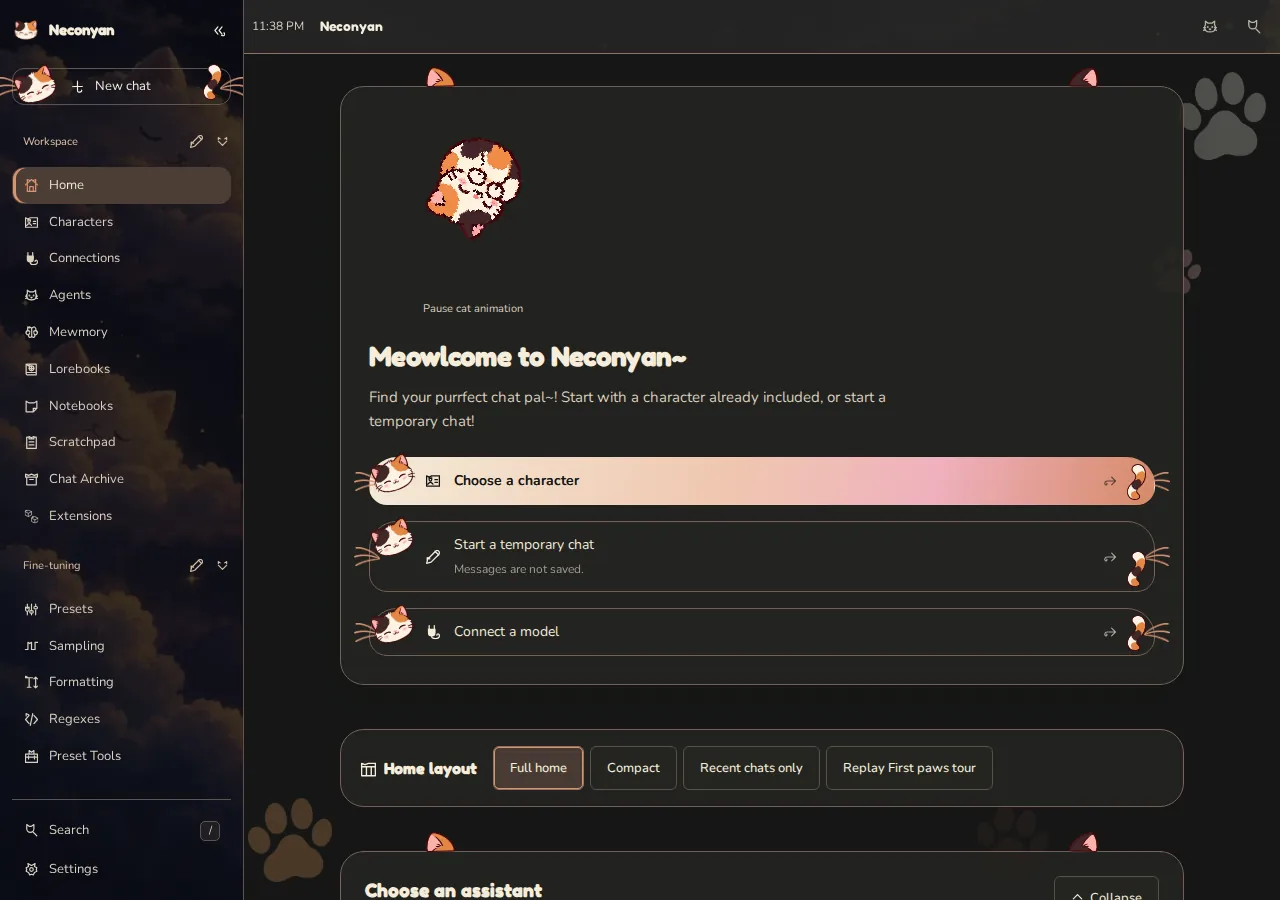
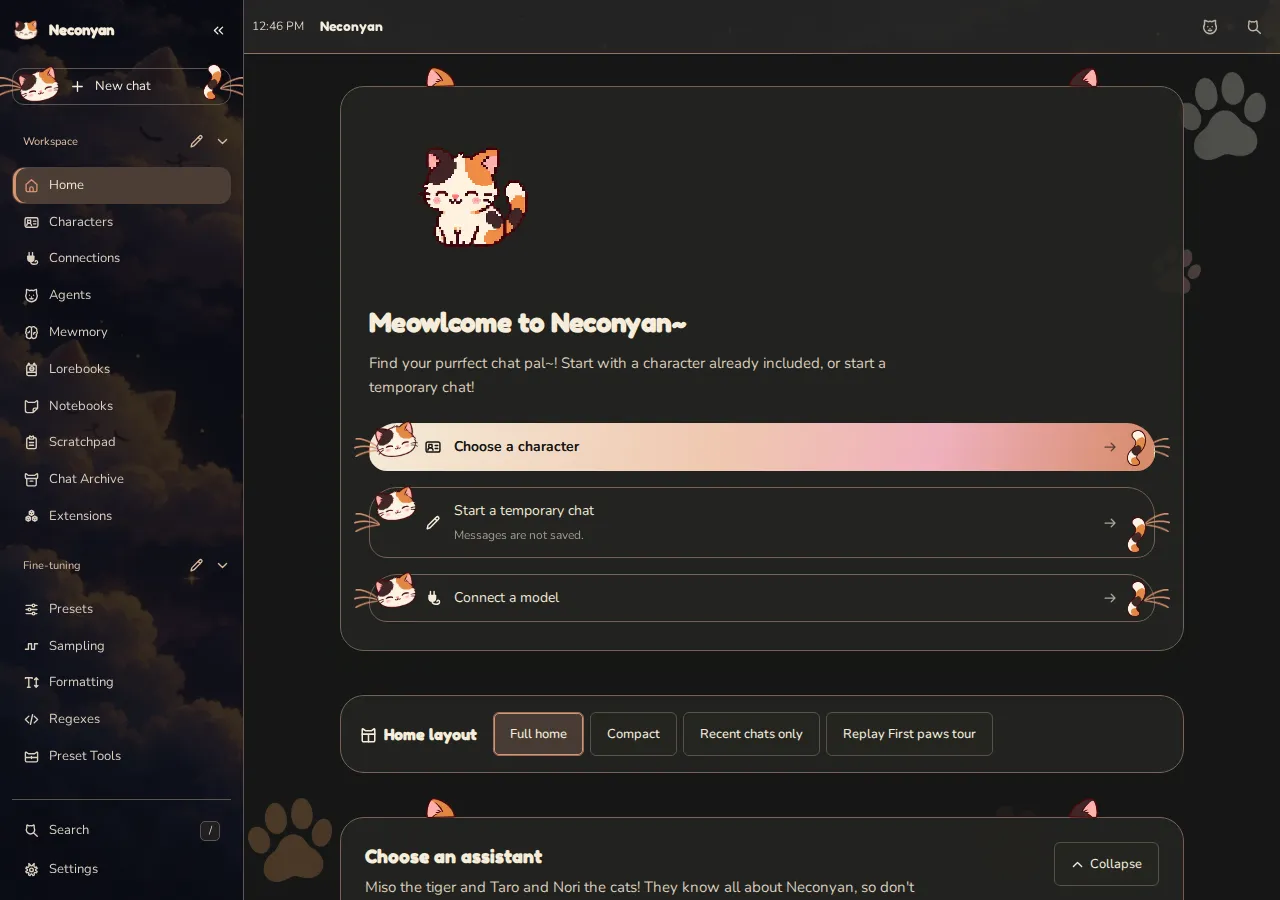
docs: prepare the 1.5.4 handbook and refresh screenshots

diff --git a/docs/help/device-sync.md b/docs/help/device-sync.md
@@ -1,0 +1,99 @@
+---
+title: Device sync
+guide: taro
+quote: 'Choose what travels, save on both sides, then transfer. A newer date alone does not decide which copy wins.'
+---
+
+# Device sync
+
+**Settings → Device sync** moves selected libraries between separate Neconyan installations. If your phone and computer already open the same server and account, they already share its data.
+
+!!! info 'Available in the 1.5.4 candidate'
+    I've reviewed this guide against candidate commit **dca2266f** on 10 November 2026. Version 1.5.4 is not published yet. The current published release is [1.5.3](https://github.com/platberlitz/Neconyan/releases/tag/v1.5.3).
+
+=== "On desktop"
+
+    <figure class="screenshot"><a href="../../assets/images/screenshots/desktop-device-sync.webp"><img src="../../assets/images/screenshots/desktop-device-sync.webp" alt="Device sync settings with category choices and manual transfer methods on desktop" loading="lazy"></a><figcaption>Choose categories and a transfer method in Settings.</figcaption></figure>
+
+=== "On phone"
+
+    <figure class="screenshot screenshot--phone"><a href="../../assets/images/screenshots/phone-device-sync.webp"><img src="../../assets/images/screenshots/phone-device-sync.webp" alt="Device sync settings in the phone layout" loading="lazy"></a><figcaption>The same manual transfer controls on a phone-sized screen.</figcaption></figure>
+
+## Before the first transfer
+
+1. Keep an independent [backup](backups.md) of both installations.
+2. Choose the categories to include, then press **Save categories** on each installation. These choices apply to incoming and outgoing data.
+3. Save the same passphrase of at least **12 characters** on both sides.
+4. Enable the method you want to use. All four methods start off, independently.
+5. Save your current chat and wait for settings to finish saving before importing, syncing, recovering or choosing a conflict resolution.
+
+Enabling a method permits its manual actions. It does not schedule background transfers. Opening the page or saving its configuration does not contact a provider.
+
+After a transfer, use **Reload imported data** before editing again. Do this when the result is uncertain too, so the open page cannot save an older copy over imported data.
+
+## Choose what travels
+
+| Category | What transfers |
+| --- | --- |
+| Characters and solo chats | Character cards and individual Roleplay chats, including metadata and reply versions |
+| Lorebooks | Selected world-information libraries |
+| Prompt templates | Instruct, Context, System Prompt and Reasoning templates |
+| Personas | Names, descriptions and matching avatar images |
+| Backgrounds | PNG, JPEG, WebP and GIF images |
+| Display preferences | Text size, chat width and blur preferences |
+
+**Chats need their character cards.** If a chat refers to a persona, including a locked persona, select the matching persona and avatar too. Dependencies are not silently added to your selection. Local chat tracking is rebuilt on arrival.
+
+Conversation and group chats, local chat attachments, API keys, sign-ins, provider and generation presets, and arbitrary extension settings do not transfer. Chats that refer to local attachment files are refused. Persona titles, lorebook links, connection choices, appendices and the active persona stay local. Deletions never travel.
+
+## Encrypted file
+
+Enable **Encrypted file**, download a package from one installation, move the file to the other, then import it there. The selected incoming libraries merge with existing data; this does not replace the whole account. Export another package in the other direction to bring later work back.
+
+This method needs no shared online storage or incoming connection to either installation.
+
+## WebDAV
+
+Enable **WebDAV** and save the same complete **HTTPS file URL**, credentials and passphrase on both installations. Create the parent folder on the storage service first, then press **Sync now**.
+
+The service must support strong **ETags**, identifiers for a particular saved version, and **conditional PUT**, which replaces a file only if that version still matches. Neconyan refuses an unsafe overwrite when these protections are missing. Redirects are not followed.
+
+## Secret GitHub Gist
+
+Enable **Secret GitHub Gist**, save a GitHub token with Gist permission, then press **Create secret Gist**. Copy the resulting ID to the other installation and use the same passphrase.
+
+A secret Gist is **unlisted, not private**. The package contents are encrypted. Each transfer adds a uniquely named snapshot; it does not overwrite or delete an earlier one.
+
+Each encrypted snapshot is limited to **900 KiB**, with at most **32 retained sync files** and fewer than **90 total files** in the Gist. For a larger collection, use files, WebDAV or direct pairing. A truncated GitHub response is refused rather than fetched from an unchecked raw-file address.
+
+## Direct pairing
+
+1. Enable **Direct pairing** and save the same passphrase on both installations.
+2. On the receiver, enter its address as reachable from the sender, then press **Create pairing code**.
+3. On the sender, paste and save that code, then press **Sync now**.
+
+Both installations must be running. The sender must be able to reach the receiver; a pairing code does not make a private server reachable. A native phone app may work only as the sender. Use HTTPS. HTTP requires an explicitly permitted local-network or loopback address.
+
+Codes last **30 days**, with at most **four active codes**. Revoke a code when it is no longer needed. Disabling pairing revokes all its codes. Revocation stops later transfer phases, but cannot retract data already published.
+
+You do not put a Neconyan basic-auth password in the pairing code. A separate reverse proxy, the service in front of your server, may need an exception for the exact pairing route. Keep other access restrictions in place; host and IP admission checks still apply.
+
+## Review conflicts
+
+Neconyan compares known content history, not dates. When two different copies have no known common history, choose **Keep mine** or **Use incoming copy**. Select incoming character cards and personas before chats that depend on them.
+
+Encrypted preserved copies stay available to download after you make a choice. Resolving the conflict does not delete them. Remove them explicitly once you have kept what you need.
+
+A recovery package made from preserved copies can restore content on the same installation, even after deletion. If a different current copy exists, you still review the conflict. Ordinary old or replayed snapshots cannot undo later work.
+
+## Recover an interrupted transfer
+
+Keep the original method enabled and press **Recover** before starting another import. A recovery record is saved before publication. Edits made locally while a transfer was interrupted can become conflicts rather than being overwritten. An active reply, reset or incompatible account operation can stop publication.
+
+Network operations time out after 20 seconds. Retry manually after checking the connection. General limits are 1,000 files, 8 MiB per file, 32 MiB expanded data and a 60 MiB encrypted request. Images are limited to 64 million pixels; local recovery storage has a 160 MiB allowance.
+
+## Passphrases and stored packages
+
+Packages use authenticated encryption: a wrong passphrase or altered package is rejected before writes. Keep the passphrase somewhere safe. Changing it does not re-encrypt packages already saved remotely.
+
+Saved credentials are private server files, not hidden from whoever controls that server. Device sync is selected-library transfer, not a substitute for an independent account backup.

diff --git a/README.md b/README.md
@@ -6,7 +6,7 @@ I want you to get a reply before you need to understand every setting. The guide
 
 Miso, Taro and Nori explain things in their own voices. You can choose each guide’s male, female or neutral appearance independently. Their dialogue is written documentation; reading it doesn’t call a model.
 
-The site includes 54 pages, a reference for 201 registered macros, twenty-two real demonstration screenshots and a downloadable extension starter. I've reviewed the practical guides for **Neconyan 1.5.3**, published at commit `39d78676`. [Download the latest release](https://github.com/platberlitz/Neconyan/releases/tag/v1.5.3). The guide review was completed against candidate `e15eef23` on 9 November 2026. This edition covers Scratchpad reply versions, prefills and HTML/CSS previews, Plot Compass objectives, separate persona note libraries, background controls and the actual text picked by Mewmory. Every workspace screenshot is refreshed, with new Agents and staged Proofreader examples. The macro catalogue retains its reviewed 7 October snapshot. The Scene Note starter and extension styling guide carry the accent button guidance; the other extension examples retain their reviewed 7 October snapshots.
+The site includes 55 pages, a reference for 201 registered macros, twenty-four real demonstration screenshots and a downloadable extension starter. I've reviewed the practical guides for the **Neconyan 1.5.4 staging candidate at `dca2266f`** on 10 November 2026. **1.5.4 is not published yet**; [1.5.3 is the latest published release](https://github.com/platberlitz/Neconyan/releases/tag/v1.5.3). This edition adds Device sync guidance, the phone section buttons in Prompting Lab and World Info Lab, and the contained JannyAI browser. Every workspace screenshot is refreshed, including the new Device sync page. The macro catalogue retains its reviewed 7 October snapshot. The Scene Note starter and extension styling guide carry the accent button guidance; the other extension examples retain their reviewed 7 October snapshots.
 
 ## Preview locally
 
@@ -43,7 +43,7 @@ Avoid repeated 'same X' phrasing and three-item lists written for rhythm. Keep a
 
 Use demonstration data for screenshots. Desktop captures are 1280×900 and phone captures are 393×852. Keep verification captures in `screenshots/`; that directory is ignored. Images published in the handbook belong in `docs/assets/images/screenshots/`.
 
-All twenty-two screenshots were retaken on 9 November 2026 from the 1.5.3 candidate at `e15eef23`, with the default Calico Dark accent, thinner Catline details, filled cat-eared Stop and corrected background controls. The Proofreader example uses a fixed sample response through the real Agent workflow, with edit, Undo and Redo checked again at both widths. Capture provenance and browser settings are in [ASSETS.md](ASSETS.md). When replacing screenshots, update that record and check the affected guides and screenshot zoom at both widths.
+All twenty-four screenshots were taken on 10 November 2026 from the 1.5.4 candidate at `dca2266f`, with the default Calico Dark accent and the larger, rounder Catline icons. The Proofreader example uses a fixed sample response through the real Agent workflow, with edit, Undo and Redo checked at both widths. Capture provenance and browser settings are in [ASSETS.md](ASSETS.md). When replacing screenshots, update that record and check the affected guides and screenshot zoom at both widths.
 
 ## Update the macro reference
 

diff --git a/docs/help/about.md b/docs/help/about.md
@@ -10,7 +10,7 @@ This is the official Neconyan handbook, built with [Material for MkDocs](https:/
 
 ## Version and scope
 
-I've reviewed these guides for **Neconyan 1.5.3**, published at commit **39d78676**. [Download the latest release](https://github.com/platberlitz/Neconyan/releases/tag/v1.5.3). The guide review was completed against candidate **e15eef23** on 9 November 2026. Some controls described here won't appear until you update. This edition covers Scratchpad reply versions, prefills and HTML/CSS previews, Plot Compass objectives, separate persona note libraries, background controls and the actual text picked by Mewmory. It also refreshes every workspace screenshot and adds Agents and a staged Proofreader demonstration.
+I've reviewed these guides against the **Neconyan 1.5.4 staging candidate at dca2266f** on **10 November 2026**. This candidate is **not yet published**; [1.5.3 is the latest published release](https://github.com/platberlitz/Neconyan/releases/tag/v1.5.3). This edition adds Device sync guidance, the phone section buttons in Prompting Lab and World Info Lab, and the contained JannyAI browser. Some controls described here won't appear in 1.5.3.
 
 The macro catalogue retains its reviewed 7 October snapshot. The Scene Note starter and extension styling guide now carry the accent button guidance; the other extension examples are unchanged from their reviewed 7 October snapshots. The macro guides explain which replies are still built on the server and which macros those refuse. The newer Agent-only placeholders are documented separately and don't change the registered macro count.
 
@@ -18,7 +18,7 @@ The practical guides focus on common tasks and link to longer references when yo
 
 ## Screenshots and artwork
 
-All twenty-two workspace screenshots were captured from the 1.5.3 candidate on 9 November, using demonstration content and the bundled assistants, not private chats. The Proofreader example uses a fixed sample response through the real edit-history workflow; it isn't a live model conversation.
+All twenty-four workspace screenshots were captured from the 1.5.4 candidate on 10 November, using demonstration content and the bundled assistants, not private chats. The Proofreader example uses a fixed sample response through the real edit-history workflow; it isn't a live model conversation.
 
 Miso, Taro and Nori use Neconyan's existing assistant artwork, with male, female and neutral variants. Their handbook dialogue is authored guidance, not a live model conversation. Gender preferences stay in the browser when storage is available.
 

diff --git a/ASSETS.md b/ASSETS.md
@@ -4,11 +4,11 @@ The bundled artwork was copied from [Neconyan at 6e0269d0](https://github.com/pl
 
 ## Screenshots
 
-All twenty-two screenshots were recaptured on 9 November 2026 from the running [Neconyan 1.5.3 candidate at e15eef23](https://github.com/platberlitz/Neconyan/tree/e15eef23), after the thinner Catline details, filled cat-eared Stop and background transparency fixes. Home, Roleplay, Catelier, Simple Mode, Conversation, Meower, Story Mode, Notebooks, Scratchpad, Agents and Proofreader each have a desktop and phone image.
+All twenty-four screenshots were captured on 10 November 2026 from the running [Neconyan 1.5.4 candidate at dca2266f](https://github.com/platberlitz/Neconyan/tree/dca2266f), with the larger, rounder Catline icons. This candidate is not yet published. Home, Roleplay, Catelier, Simple Mode, Conversation, Meower, Story Mode, Notebooks, Scratchpad, Agents, Proofreader and Device sync each have a desktop and phone image.
 
 The captures use disposable demonstration data: Calico Dark with its default accent, bundled assistants and staged chats, posts, notes, a character dossier and a Scratchpad discussion. The default colours were restored and checked before capture. No personal account data was used. The Proofreader example runs the real Agent workflow with one intercepted provider request returning a fixed sample response; its edit, Undo and Redo were checked again at both widths. It isn't a live model demonstration. No external model requests were made.
 
-These replace the eighteen images previously captured on 30 October, 5 November and 8 November, and add the four Agents and Proofreader images.
+These replace the twenty-two images captured on 9 November and add the two Device sync images.
 
 Playwright captured Chromium at 1280×900 for desktop with a pixel ratio of 1, and 393×852 with touch emulation for phone at a pixel ratio of 1.5. These are browser viewport captures, not physical-phone or Safari verification. The screenshots were converted to WebP at quality 80 without resizing or compositing interface elements.
 

diff --git a/docs/helpers/tools.md b/docs/helpers/tools.md
@@ -29,6 +29,8 @@ Included code updates with Neconyan. Third-party extensions you install separate
 
 Prompt reconstruction and dry diagnostics don't generate replies. Prompting Lab's model comparisons and optional analysis make real requests. Read the action before running a batch.
 
+On phones, Prompting Lab and World Info Lab use visible section buttons instead of a section dropdown. Tap a section to open its controls without opening the keyboard.
+
 ### Quick Replies
 
 **Quick Replies** is the bundled extension; its settings header says **Quick Reply**. Buttons sit above the message box, and **Show quick reply buttons** turns the bar on. Sets are listed under **Shown in every chat**, **Only in this chat** and **Only with this character**; a character association is kept in your settings, not in the character card.
@@ -108,6 +110,8 @@ Under **How expressions are picked → Image generation and cleanup**, **Sprite 
 **BotSearcher** searches supported card sources. Available filters, accounts and downloads depend on the source site. External-site errors can occur independently of your model connection. A failed JannyAI link import names its reason, such as a missing login on the server or a hidden card definition. Logging in to JannyAI in your own browser doesn't count; use **Refresh status** or **Open JannyAI login window** in BotSearcher.
 
 **JannyAI card blocks proxies** means the creator has hidden the definition and disabled proxy access. Logging in again won't remove that setting. If JannyAI offers a card download, download it there and import the file; not every hidden card offers one.
+
+The JannyAI panel stays inside BotSearcher's workspace on phones and desktop, including its login and status controls.
 
 **Debugger** provides a diagnostic report and layout snapshot. Reproduce the problem first, then open its report, read it and copy or download it. **Prompt Inspector** helps inspect supported outgoing requests; those prompts may contain private chat material.
 

diff --git a/docs/help/backups.md b/docs/help/backups.md
@@ -10,6 +10,8 @@ Keep an independent copy before updating, importing a large library or making br
 
 ## Choose the right export
 
+For selected libraries between separate installations, use [Device sync](device-sync.md). Its four manual transfer methods are separate from a whole-account backup; deletions, keys and Conversation chats do not travel.
+
 | Export or copy | Useful for | Doesn't automatically include |
 | --- | --- | --- |
 | Character card | Moving a character definition | All chats, gallery media and account settings |
